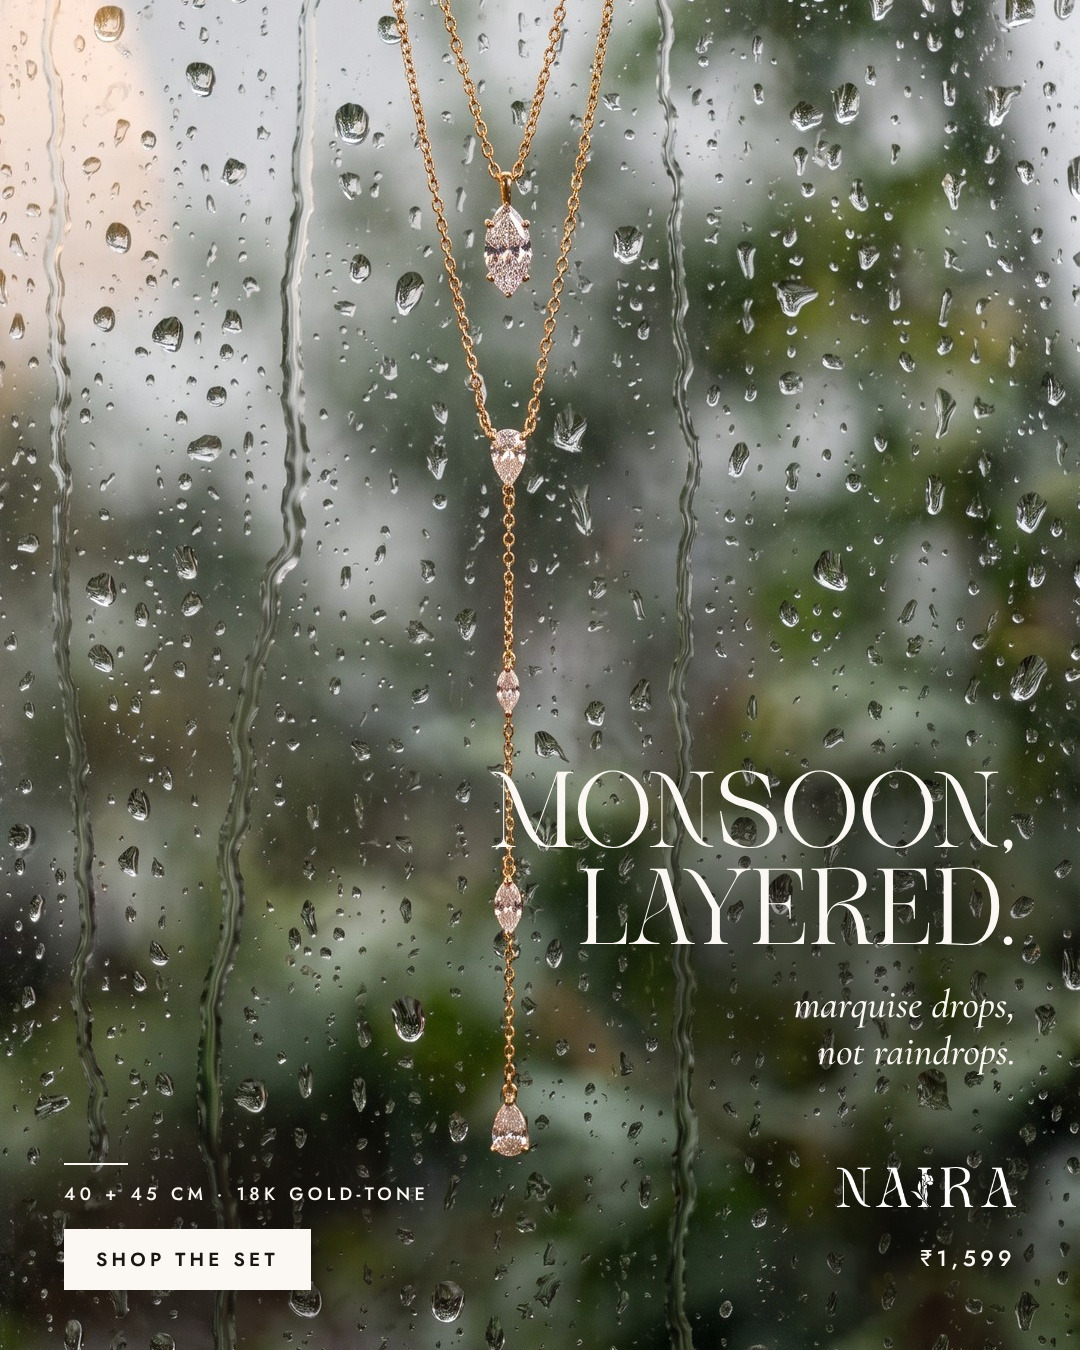
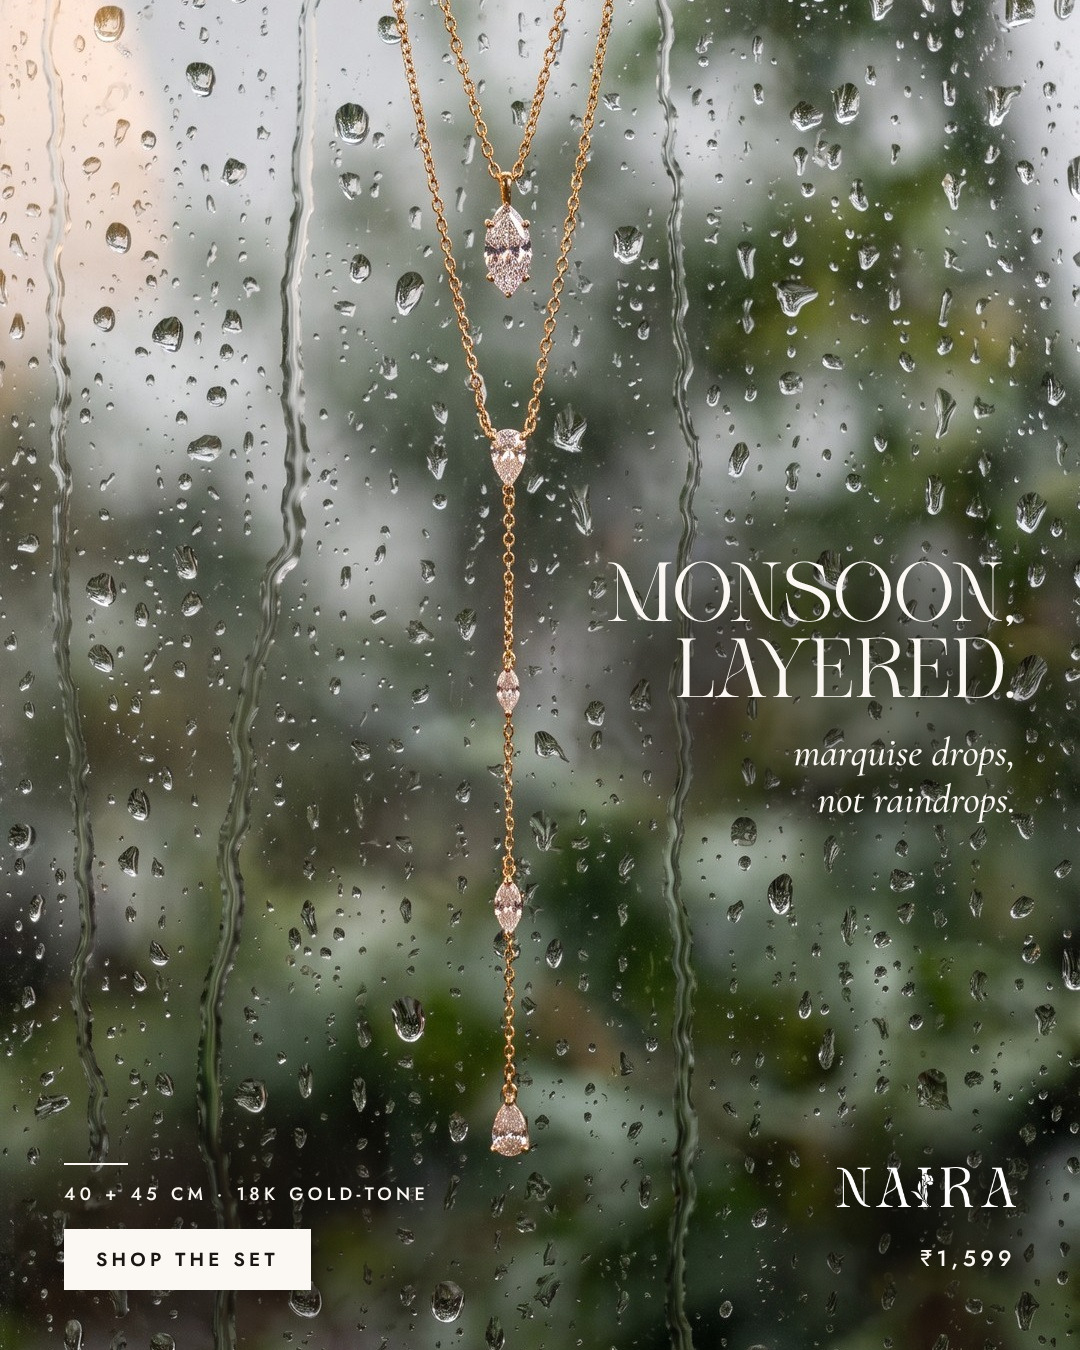
Crazy round two: C37 feed headline clear of the chain
Claude-Session: https://claude.ai/code/session_015dHqE92KQXn2h19sPkpsQR

Changed region(s): [[0.4583, 0.4044, 0.9472, 0.8089], [0.9167, 0.6533, 0.9472, 0.6844], [0.55, 0.4044, 0.5806, 0.4356]]

diff --git a/docs/creative/performance/build/ad_copy.py b/docs/creative/performance/build/ad_copy.py
@@ -447,6 +447,7 @@ CZ_FIX = {
  "C24": {"h": "Packed<br>with love.", "hs": 92},
  "C28": {"h": "Dhanteras,<br>sorted."},
  "C42": {"h": "Keep<br>the<br>ribbon.", "hs": 84, "w": 330, "at": "tl", "fixed": True, "feed": {"y": 290}, "story": {"y": 300}},
+ "C37": {"feed": {"at": "tr", "fixed": True, "y": 560, "hs": 84, "w": 380}},
  "C20": {"h": "Cherry earrings,<br>grown up.", "w": 900, "story": {"at": "tl", "fixed": True, "y": 300, "hs": 96}},
 }
 
